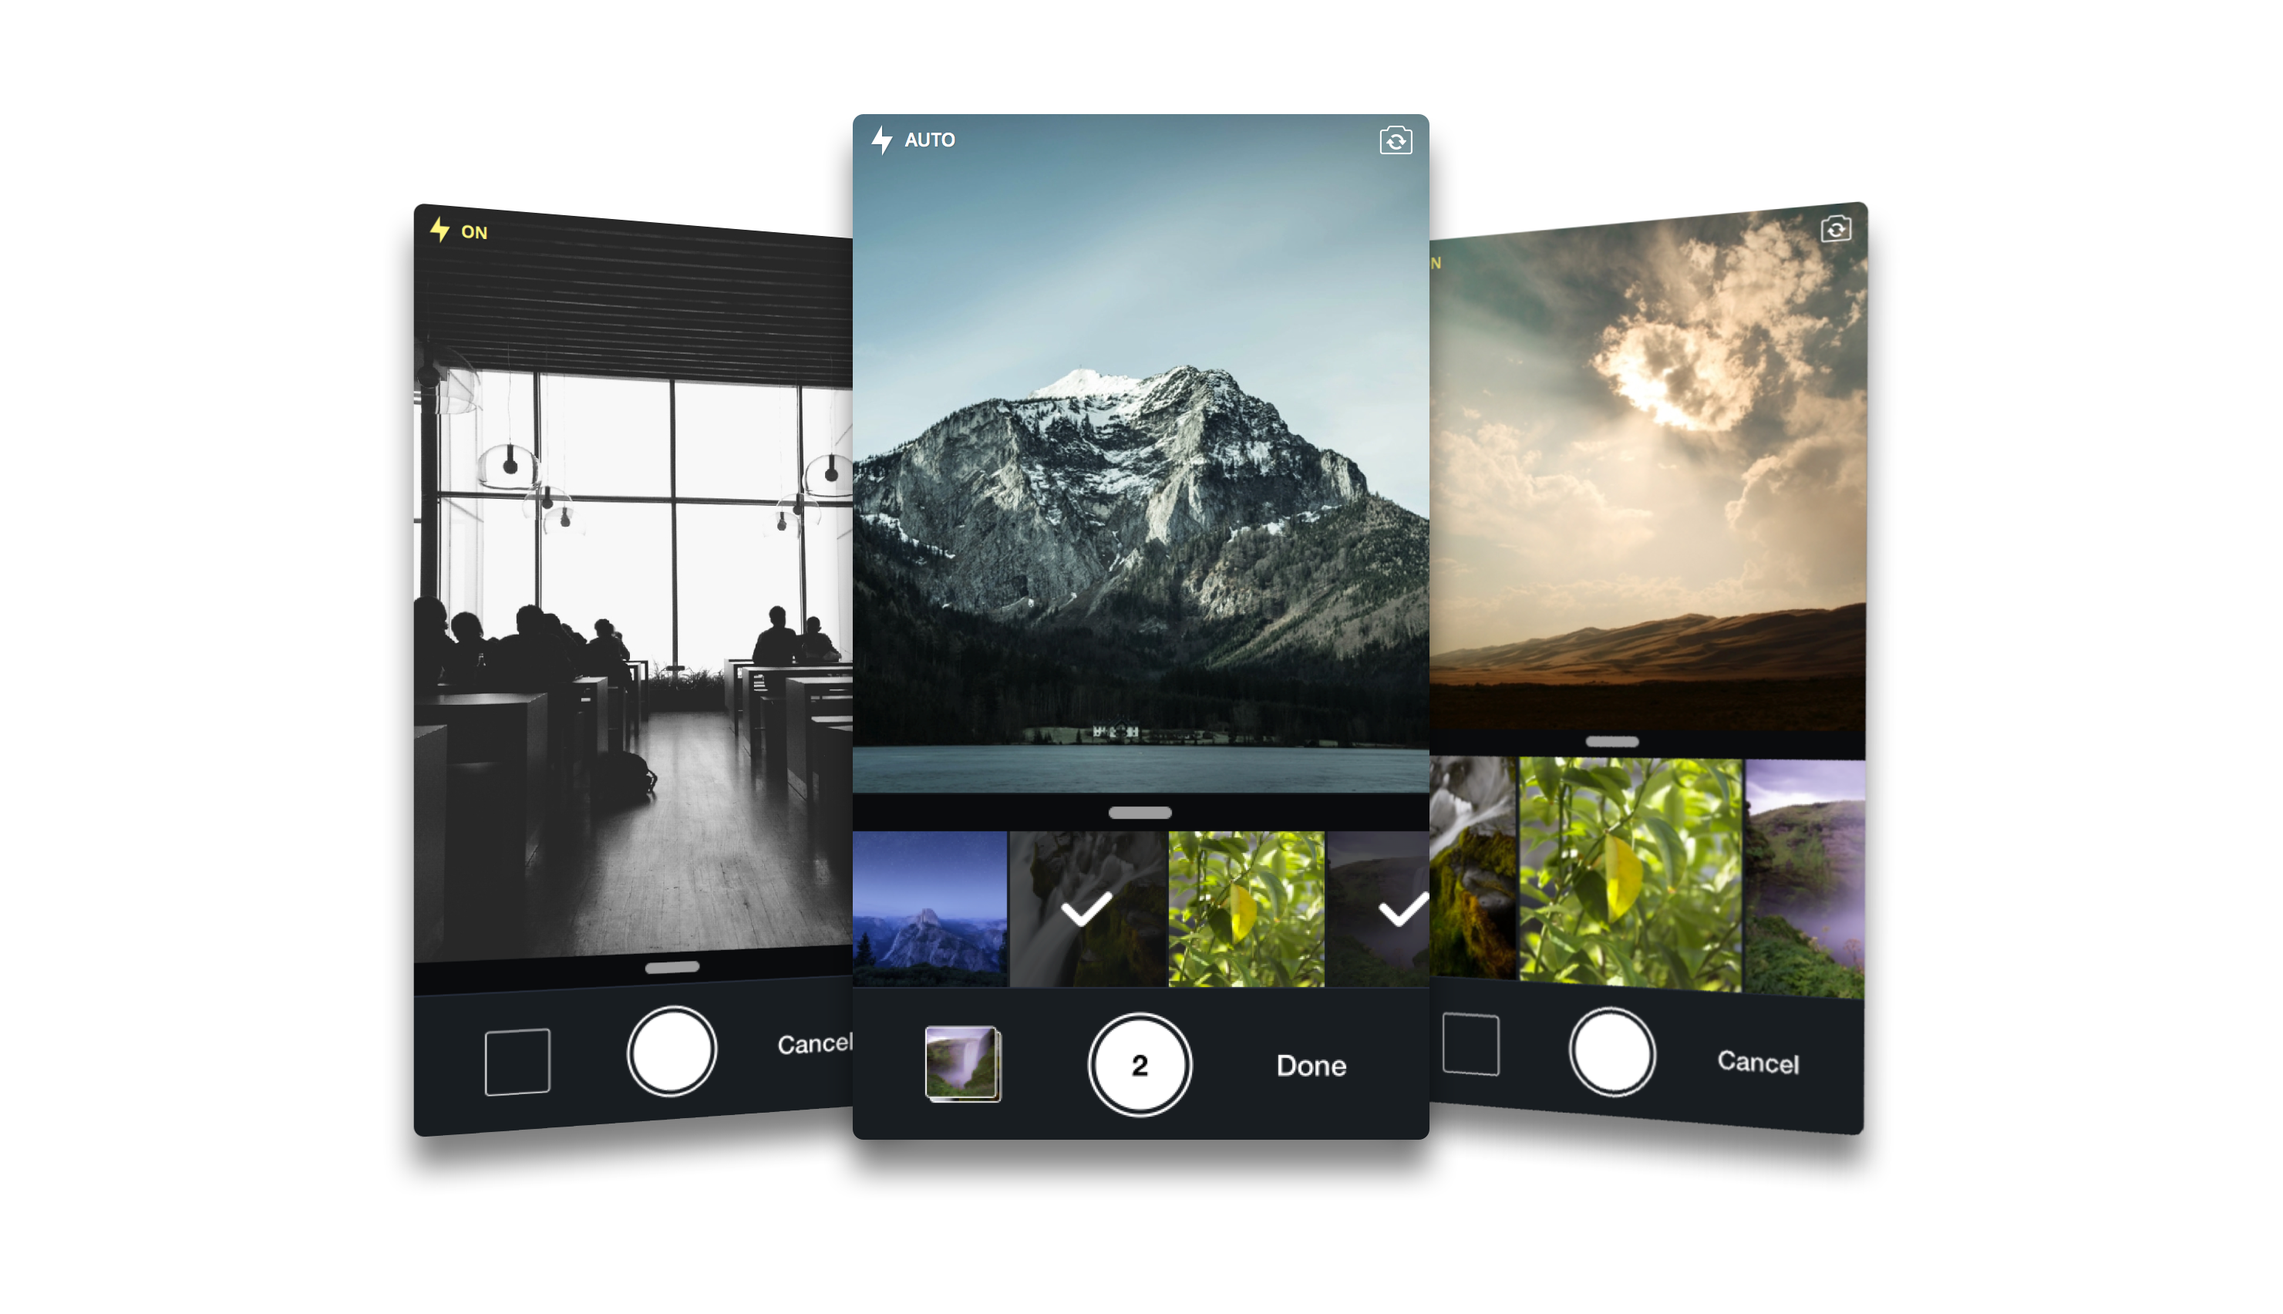
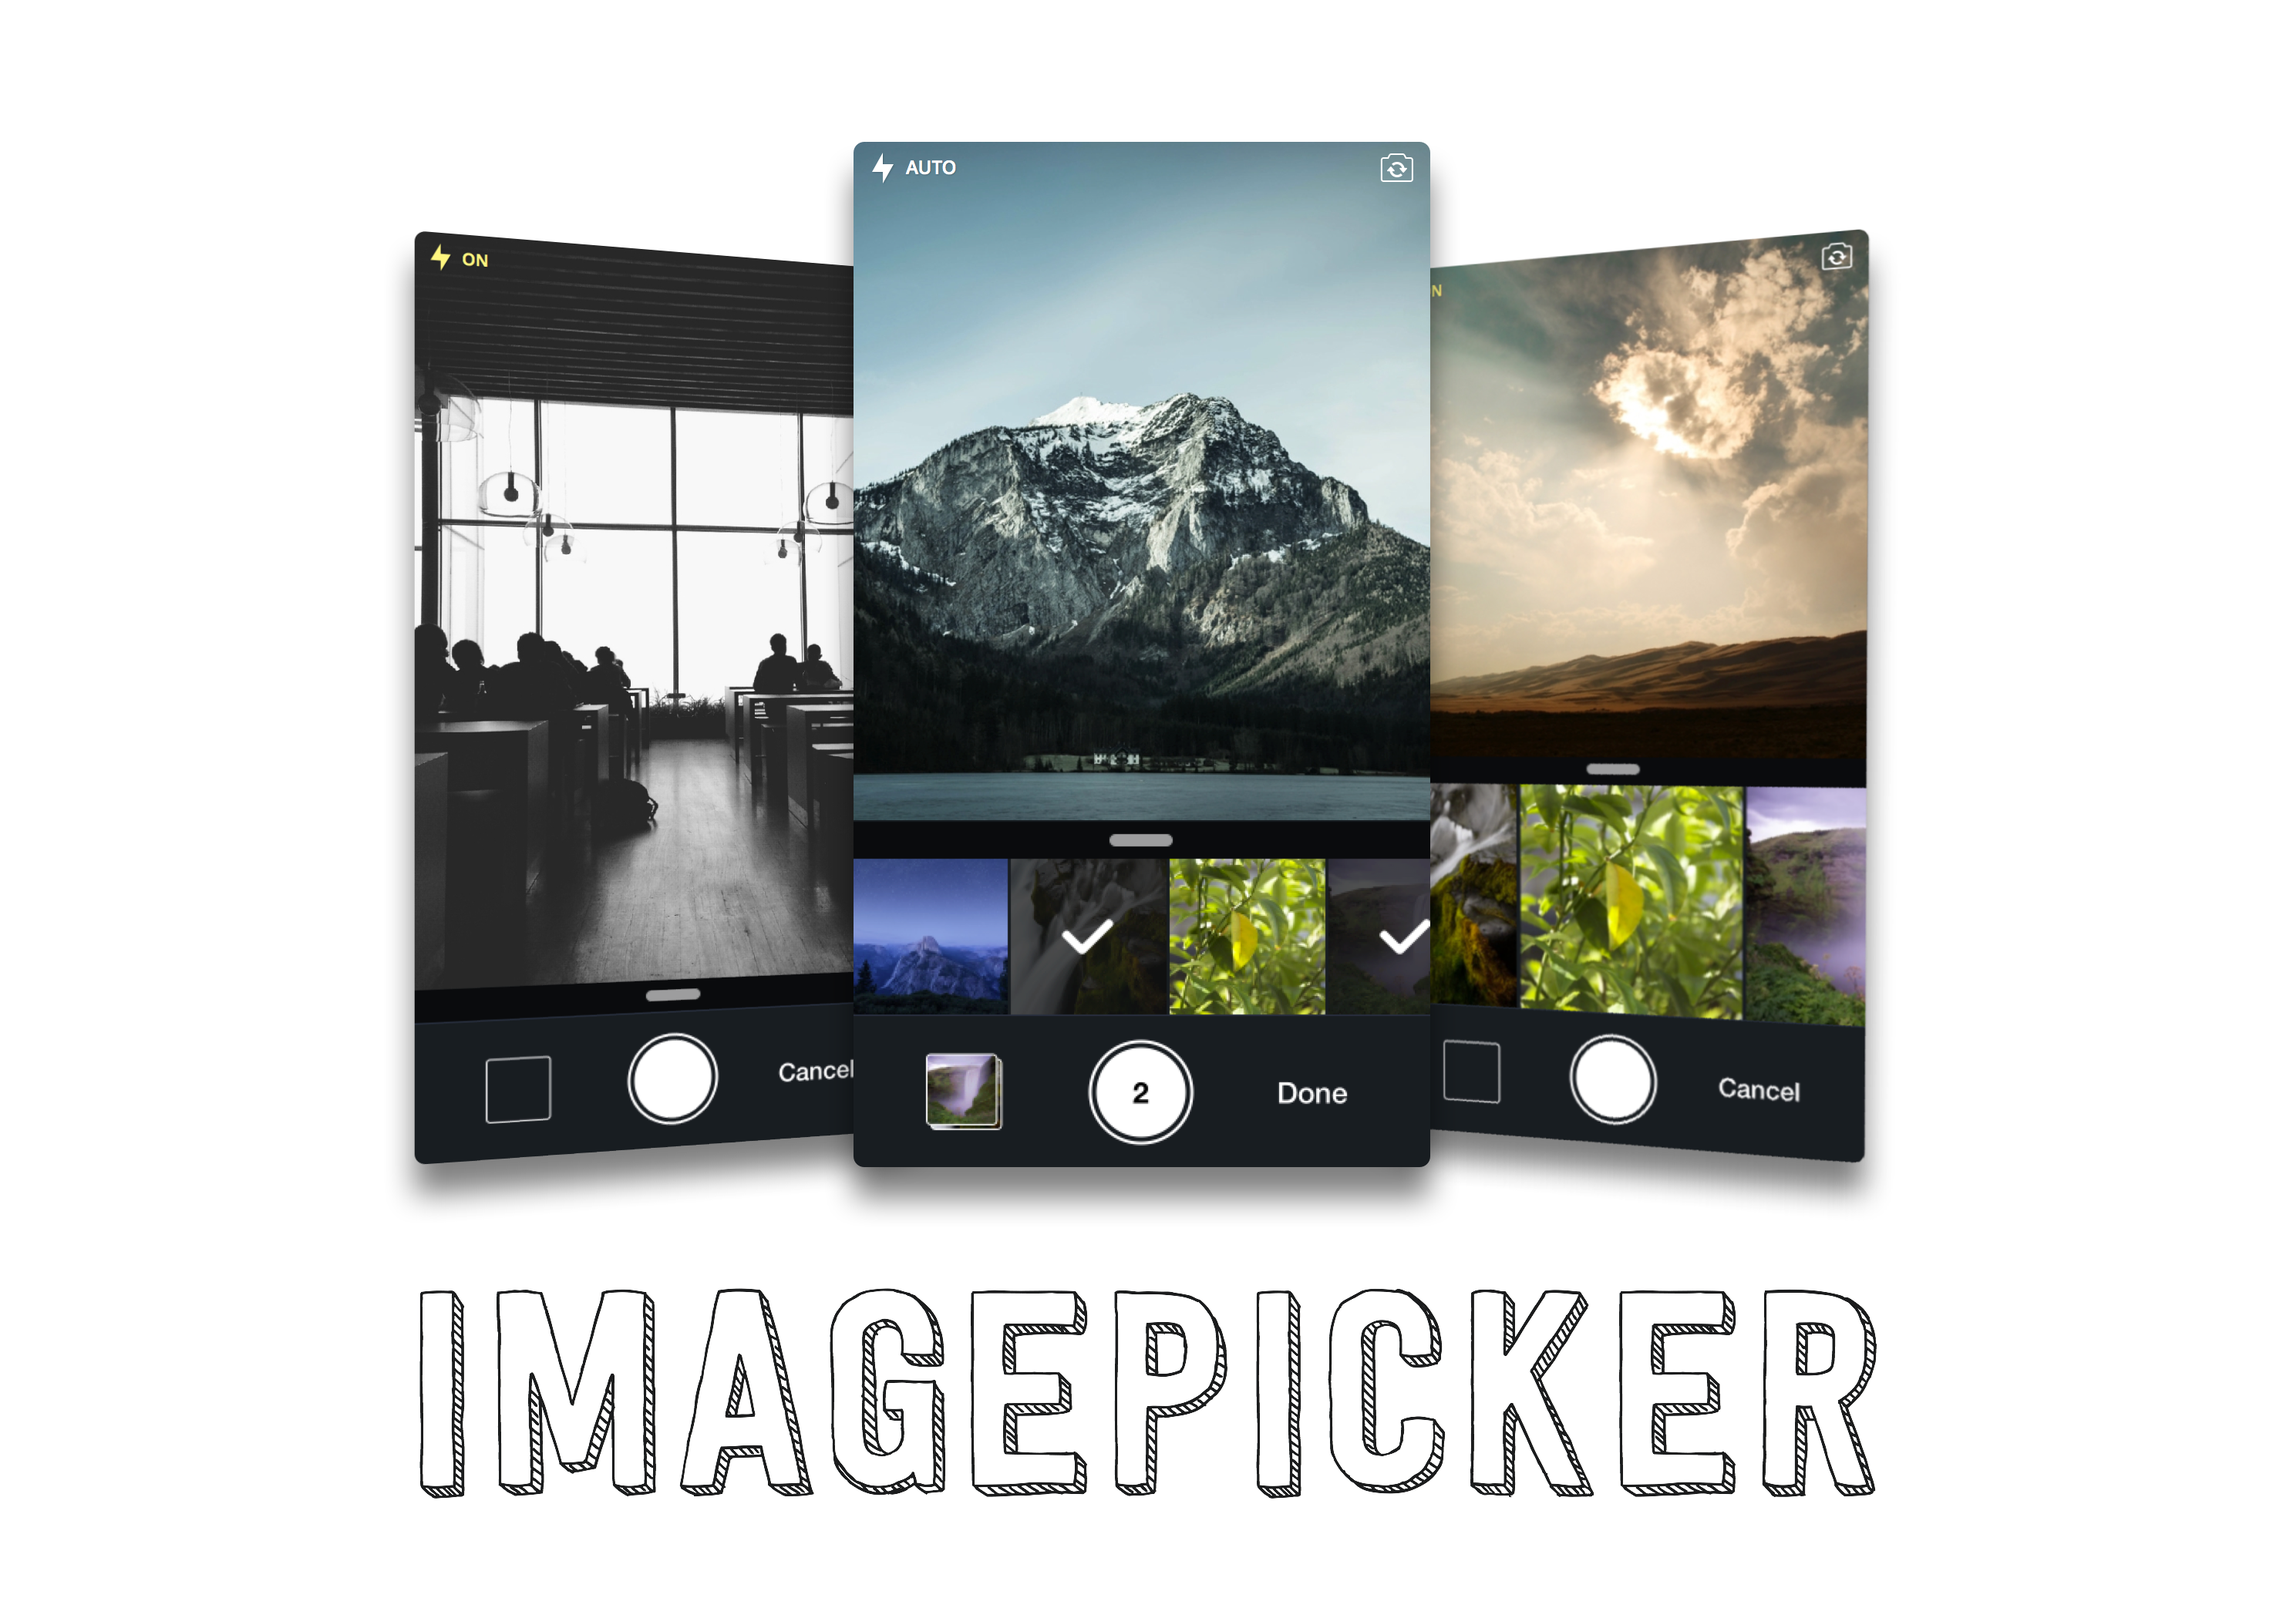
Updates the README

diff --git a/README.md b/README.md
@@ -1,12 +1,10 @@
-# ImagePicker :camera:
+![ImagePicker](https://github.com/hyperoslo/ImagePicker/blob/master/Resources/ImagePickerPresentation.png)
 
 [![Version](https://img.shields.io/cocoapods/v/ImagePicker.svg?style=flat)](http://cocoadocs.org/docsets/ImagePicker)
 [![License](https://img.shields.io/cocoapods/l/ImagePicker.svg?style=flat)](http://cocoadocs.org/docsets/ImagePicker)
 [![Platform](https://img.shields.io/cocoapods/p/ImagePicker.svg?style=flat)](http://cocoadocs.org/docsets/ImagePicker)
 
 ## Description
-
-![ImagePicker](https://github.com/hyperoslo/ImagePicker/blob/master/Resources/ImagePickerPresentation.png)
 
 **ImagePicker** is an all-in-one camera solution for your iOS app. It let's your users select images from the library and take pictures at the same time. As a developer you get notified of all the user interactions and get the beautiful UI for free, out of the box, it's just that simple.
 
